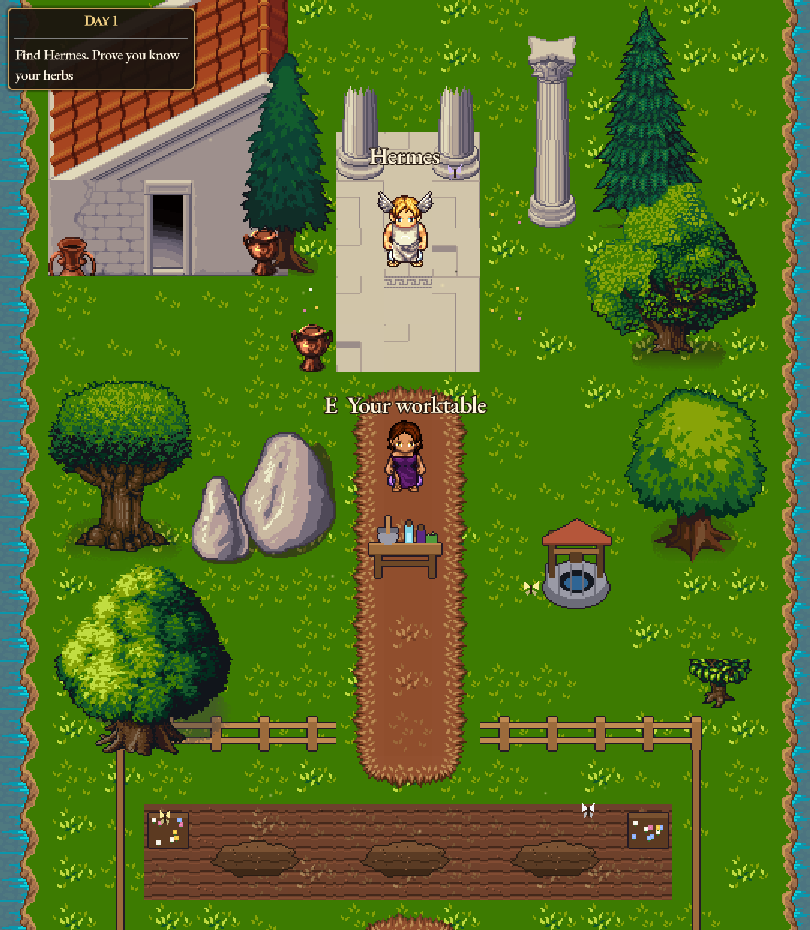
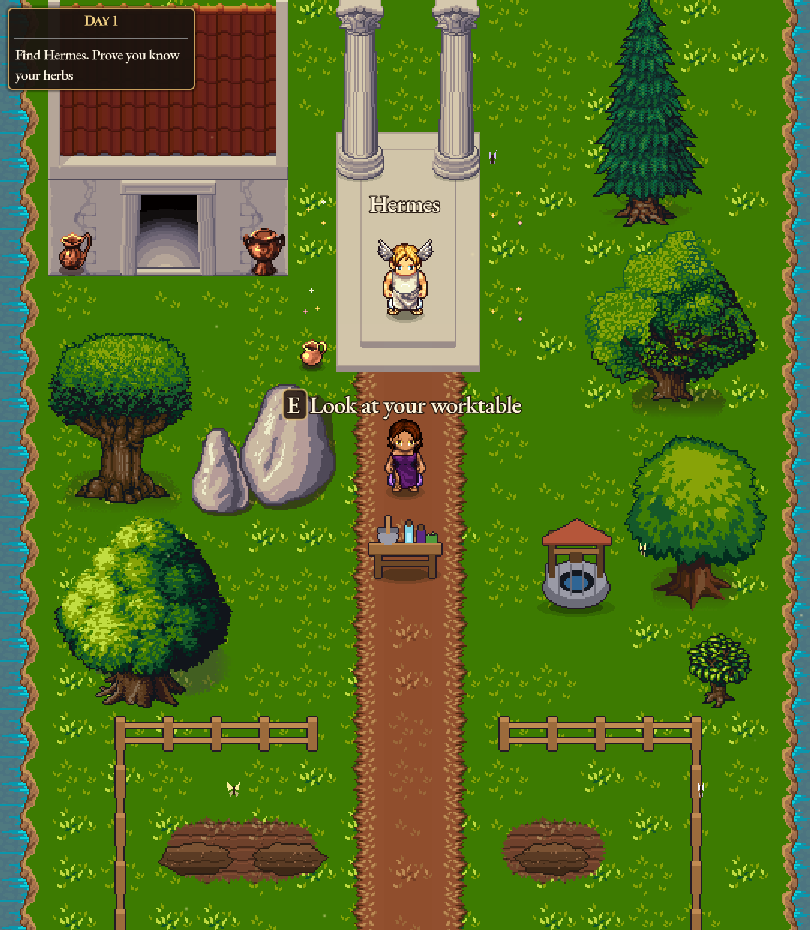
Circe's Garden: new island and herb-lesson pictures
The island picture shows the rebuilt house, terrace and garden; the lesson
picture now shows hemlock, so its description says hemlock.

diff --git a/index.html b/index.html
@@ -35,7 +35,7 @@
 <main id="main">
 <section aria-labelledby="results-h" style="padding-top:0"><div class="wrap"><h2 id="results-h" class="hl-h">Highlights</h2><ul class="results n4"><li class=""><strong>220%</strong><span>of my qualified-opportunity quota in my first 60 days at D2L</span></li><li class=""><strong>168%</strong><span>of my annual quota at D2L</span></li><li class=""><strong>400%</strong><span>more meetings for the reps who used the AI outreach workflow I co-built with my manager</span></li><li class=""><strong>60%</strong><span>of my connected cold calls at D2L booked a meeting</span></li></ul></div></section>
 <section id="experience" aria-labelledby="exp-h"><div class="wrap"><h2 id="exp-h">Experience</h2><div class="tl" data-fill><div class="tl-line" aria-hidden="true"><div class="tl-fill"></div></div><ol class="tl-list"><li class="tl-item reveal"><span class="tl-dot" aria-hidden="true"></span><p class="tl-date">Mar 2026 to Oct 2026</p><article class="tl-card"><h3>Account Executive <span class="note">(official title: Business Development Executive)</span></h3><p class="org">MembersHealth, virtual healthcare</p><ul><li>Brought 5 deals to a final decision by boards or executives.</li><li>Ran the full cycle from first demo to proposal and board decision, selling to police associations and trade unions across Ontario.</li><li>Worked side by side with our account managers, Care Team and director of mental health and addiction services to find creative solutions for customers and learn what delivered the most value.</li><li>Took a construction union from first email to first meeting in 2 days, and had pricing in front of its board within a month.</li></ul></article></li><li class="tl-item reveal"><span class="tl-dot" aria-hidden="true"></span><p class="tl-date">Dec 2024 to Oct 2025</p><article class="tl-card"><h3>Enterprise Business Development Representative</h3><p class="org">D2L, education software</p><ul><li>Hit <b class="fig">220%</b> of my qualified-opportunity quota and <b class="fig">250%</b> of my meetings quota in my first 60 days.</li><li>Promoted to Enterprise BDR by month 4, covering enterprise schools across Canada and half the U.S. and supporting up to 8 AEs.</li><li>Tracked at <b class="fig">168%</b> of my annual quota and sourced <b class="fig">$1.05M</b> in qualified pipeline from enterprise accounts.</li><li>Co-built an AI outreach workflow and playbook with my manager, which lifted meetings <b class="fig">400%</b> for the reps who adopted it and team KPIs <b class="fig">30%</b>.</li></ul><details class="more-lines"><summary aria-label="More about Enterprise Business Development Representative at D2L">More</summary><ul><li>Trained the BDR team on the workflow and presented it to <b class="fig">100+</b> employees, including the founder, at a town hall.</li><li>Booked a meeting on about <b class="fig">60%</b> of my connected cold calls.</li><li>At the University of Texas, each college made its own buying decision. I focused on education and nursing, where teacher and nurse shortages made the need real.</li></ul></details></article></li><li class="tl-item reveal"><span class="tl-dot" aria-hidden="true"></span><p class="tl-date">Dec 2023 to Jul 2024</p><article class="tl-card"><h3>Customer Success Consultant <span class="note">(contract, part time)</span></h3><p class="org">Forfeit Inc., an accountability app</p><ul><li>Lifted revenue <b class="fig">20%</b> in one month with retention strategies I designed and ran to cut churn.</li><li>Built ideal customer profiles from in-depth customer interviews that shaped the company&#x27;s sales strategy.</li><li>I used the app myself, and I had worked AI into how I used it to stay accountable. I pitched the founders on building AI into the app. They liked the ideas, and on a second call I pitched them on hiring me as a contractor, and they agreed.</li><li>Helped with the high-level design of an AI system meant to do goal-setting coaching for many users at once.</li></ul><details class="more-lines"><summary aria-label="More about Customer Success Consultant at Forfeit Inc.">More</summary><ul><li>Interviewed users and looked at their payment patterns and success rates to find the ones likely to cancel.</li><li>Coached app users one on one to set goals they could reach.</li><li>Set up quick tests of business ideas, including a mix of AI and outsourced human customer service, and tried several in one week.</li><li>Worked with the founders on the company&#x27;s values and goals.</li><li>Did this part time while I worked at House of Friendship.</li></ul></details></article></li><li class="tl-item reveal"><span class="tl-dot" aria-hidden="true"></span><p class="tl-date">Oct 2020 to Aug 2024</p><article class="tl-card"><h3>Emergency Shelter Support Worker, then Harm Reduction Worker <span class="note">(part time)</span></h3><p class="org">House of Friendship, Waterloo</p><ul><li>Worked directly with residents at an emergency shelter and calmed down high-risk situations, including threats and physical fights.</li><li>Managed a caseload of residents whose cases needed follow-up with several other organizations.</li><li>Started programs for residents, such as music groups and cooking classes.</li></ul></article></li><li class="tl-item reveal"><span class="tl-dot" aria-hidden="true"></span><p class="tl-date">Jul to Sept 2022</p><article class="tl-card"><h3>Training and Development Assistant <span class="note">(co-op)</span></h3><p class="org">House of Friendship, Kitchener</p><ul><li>My main project was rewriting the organization&#x27;s fire safety plan.</li><li>Ran planning sessions in Miro with 20 stakeholders, including senior executives, to agree on the safety changes.</li><li>Helped build and run staff training.</li><li>Suggested a change to how meetings ran, and my supervisor adopted it.</li></ul></article></li><li class="tl-item reveal"><span class="tl-dot" aria-hidden="true"></span><p class="tl-date">2017 to 2018</p><article class="tl-card"><h3>Door-to-door sales</h3><p class="org">Kitchener</p><ul><li>Averaged 80 leads a week, <b class="fig">200%</b> of target, and was promoted to train new hires.</li><li>Exceeded my sales quotas in door-to-door sales on <b class="fig">100%</b> commission, knocking on <b class="fig">100+</b> doors a day and asking hundreds of people in person for a signature.</li></ul></article></li></ol></div></div></section>
-<section id="projects" aria-labelledby="proj-h"><div class="wrap"><h2 id="proj-h">Projects</h2><div class="projects"><article class="project reveal novis"><div class="txt"><span class="when">Feb 2026</span><h3>Second Sales Brain</h3><p>Second Sales Brain is a system I built for BDRs. It saves your best outreach and research, so each new email or call starts from what already worked.</p><p>Its four modules cover outreach writing, account research, automation and cold call prep. It has setups for Google Workspace with Gemini, Microsoft with strict IT rules, ChatGPT Enterprise, and Claude with Notion.</p><p class="more"><a href="https://github.com/OpenSourceSam/second-sales-brain">Second Sales Brain on GitHub</a></p><ul class="tags" aria-label="Tools and topics"><li>Gemini</li><li>Copilot</li><li>ChatGPT</li><li>Claude</li><li>Notion</li></ul></div></article><article class="project reveal novis"><div class="txt"><h3>AI outreach workflow at D2L</h3><p>I co-built it with my manager for prospecting and Salesforce admin. I trained the BDR team on it and presented it to 100+ employees, including the founder, at a town hall.</p><ul class="tags" aria-label="Tools and topics"><li>D2L</li><li>Team training</li></ul></div></article><article class="project reveal"><div class="txt"><span class="when">2026</span><h3>My personal AI agent</h3><p>I set up a secure Linux server with SSH-key-only access, running a personal Claude Code agent I message through Telegram.</p><p>It connects to my Notion second brain, Todoist and Google Calendar to manage my priorities, habits, fitness and finance goals.</p><p>It holds my personal data, so I describe it here instead of showing it.</p><ul class="tags" aria-label="Tools and topics"><li>Claude Code</li><li>Linux</li><li>Telegram</li><li>Notion</li><li>Todoist</li></ul></div><div class="vis"><div class="viz viz-flow" aria-hidden="true"><span>Telegram</span><i>&darr;</i><span class="core">Claude Code agent on my Linux server</span><i>&darr;</i><span class="row"><em>Notion</em><em>Todoist</em><em>Google Calendar</em></span></div></div></article><article class="project reveal game"><div class="txt"><span class="when">2026</span><h3>Circe&#x27;s Garden, a side project</h3><p>A short story game I made with Claude Code as a gift for a friend, based on Madeline Miller&#x27;s novel Circe. You can play it in your browser.</p><p>A script plays it in a browser and checks every step, and nine automated tests check the quest logic.</p><p class="more"><a href="https://github.com/OpenSourceSam/circes-garden">Play it, or read how I made it, on GitHub</a></p><ul class="tags" aria-label="Tools and topics"><li>Godot</li><li>Claude Code</li><li>Side project</li></ul></div><div class="vis"><div class="shots"><img src="assets/img/circe-prologue.png" alt="The prologue: Circe stands on a cliff at sunset. The text reads: I am Circe, daughter of the sun." width="810" height="930"><img src="assets/img/circe-island.png" alt="Circe on the island of Aiaia, below Hermes on his stone terrace." width="810" height="930"><img src="assets/img/circe-lesson.png" alt="Hermes&#x27; herb lesson: a nightshade plant on a cream card, with three answers to choose from." width="810" height="930"></div></div></article></div></div></section>
+<section id="projects" aria-labelledby="proj-h"><div class="wrap"><h2 id="proj-h">Projects</h2><div class="projects"><article class="project reveal novis"><div class="txt"><span class="when">Feb 2026</span><h3>Second Sales Brain</h3><p>Second Sales Brain is a system I built for BDRs. It saves your best outreach and research, so each new email or call starts from what already worked.</p><p>Its four modules cover outreach writing, account research, automation and cold call prep. It has setups for Google Workspace with Gemini, Microsoft with strict IT rules, ChatGPT Enterprise, and Claude with Notion.</p><p class="more"><a href="https://github.com/OpenSourceSam/second-sales-brain">Second Sales Brain on GitHub</a></p><ul class="tags" aria-label="Tools and topics"><li>Gemini</li><li>Copilot</li><li>ChatGPT</li><li>Claude</li><li>Notion</li></ul></div></article><article class="project reveal novis"><div class="txt"><h3>AI outreach workflow at D2L</h3><p>I co-built it with my manager for prospecting and Salesforce admin. I trained the BDR team on it and presented it to 100+ employees, including the founder, at a town hall.</p><ul class="tags" aria-label="Tools and topics"><li>D2L</li><li>Team training</li></ul></div></article><article class="project reveal"><div class="txt"><span class="when">2026</span><h3>My personal AI agent</h3><p>I set up a secure Linux server with SSH-key-only access, running a personal Claude Code agent I message through Telegram.</p><p>It connects to my Notion second brain, Todoist and Google Calendar to manage my priorities, habits, fitness and finance goals.</p><p>It holds my personal data, so I describe it here instead of showing it.</p><ul class="tags" aria-label="Tools and topics"><li>Claude Code</li><li>Linux</li><li>Telegram</li><li>Notion</li><li>Todoist</li></ul></div><div class="vis"><div class="viz viz-flow" aria-hidden="true"><span>Telegram</span><i>&darr;</i><span class="core">Claude Code agent on my Linux server</span><i>&darr;</i><span class="row"><em>Notion</em><em>Todoist</em><em>Google Calendar</em></span></div></div></article><article class="project reveal game"><div class="txt"><span class="when">2026</span><h3>Circe&#x27;s Garden, a side project</h3><p>A short story game I made with Claude Code as a gift for a friend, based on Madeline Miller&#x27;s novel Circe. You can play it in your browser.</p><p>A script plays it in a browser and checks every step, and nine automated tests check the quest logic.</p><p class="more"><a href="https://github.com/OpenSourceSam/circes-garden">Play it, or read how I made it, on GitHub</a></p><ul class="tags" aria-label="Tools and topics"><li>Godot</li><li>Claude Code</li><li>Side project</li></ul></div><div class="vis"><div class="shots"><img src="assets/img/circe-prologue.png" alt="The prologue: Circe stands on a cliff at sunset. The text reads: I am Circe, daughter of the sun." width="810" height="930"><img src="assets/img/circe-island.png" alt="Circe on the island of Aiaia, below Hermes on his stone terrace." width="810" height="930"><img src="assets/img/circe-lesson.png" alt="Hermes&#x27; herb lesson: a hemlock plant on a cream card, with three answers to choose from." width="810" height="930"></div></div></article></div></div></section>
 <section id="about" aria-labelledby="about-h"><div class="wrap"><h2 id="about-h">About</h2><div class="about" style="margin-top:1.5rem"><img src="assets/img/sam.jpg" alt="Cartoon of Sam Cloutier waving, in a shirt that says I love Pipeline" width="460" height="460"><div><p>I started in sales knocking on doors. Every sale happened on the spot, and asking people for a signature taught me how hard to push and when to pull back. That is a big part of why I ramped up so fast at D2L.</p><p>I&#x27;m not naturally organized, so I&#x27;m unnaturally organized. My AI agent keeps my priorities, habits and goals in one place. I also still use Forfeit, which charges me real money if I miss an item on my daily checklist.</p><p>I want to win with my team. AI is so new that nobody has it all figured out, so the teams that share what they learn quickly get ahead. When I find something that works, I share it, and that genuinely fills my cup.</p><p>I love seeing what other people are building with AI. If you&#x27;re working on something fun, I&#x27;d like to hear about it.</p></div></div></div></section>
 <section id="contact" aria-labelledby="contact-h"><div class="wrap"><div class="contact-box"><h2 id="contact-h">Contact</h2><p class="contact-line">Email me at <a href="mailto:samcloutier@protonmail.com">samcloutier@protonmail.com</a> to set up a call or get my resume.</p><p class="contact-links"><a href="https://www.linkedin.com/in/sam-cloutier/">LinkedIn</a><a href="https://github.com/OpenSourceSam">GitHub</a></p></div></div></section>
 </main>
